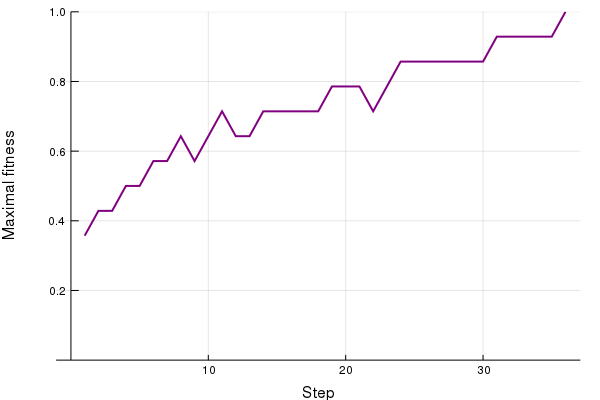
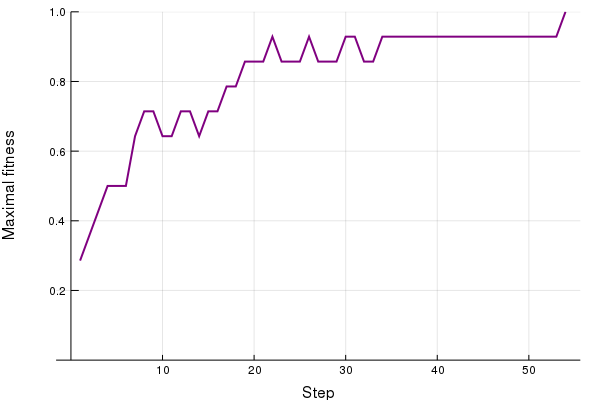
edits

diff --git a/content/lessons/control_flow.md b/content/lessons/control_flow.md
@@ -375,10 +375,10 @@ end
 
 
 ````
+bar
+bar
 foo
-bar
-bar
-bar
+foo
 bar
 ````
 
@@ -455,11 +455,11 @@ random_numbers
 
 ````
 5-element Array{Float64,1}:
- 0.21054797737371178
- 0.9224662589536379 
- 0.6096525404854314 
- 0.9684168700116775 
- 0.6166567135811234
+ 0.5735947007916011 
+ 0.5407116871161193 
+ 0.35943980207043613
+ 0.3560727908224446 
+ 0.8394320439253931
 ````
 
 
@@ -515,7 +515,7 @@ random_numbers[1]
 
 
 ````
-0.21054797737371178
+0.5735947007916011
 ````
 
 
@@ -536,7 +536,7 @@ random_numbers[length(random_numbers)]
 
 
 ````
-0.6166567135811234
+0.8394320439253931
 ````
 
 
@@ -554,7 +554,7 @@ random_numbers[end]
 
 
 ````
-0.6166567135811234
+0.8394320439253931
 ````
 
 
@@ -570,7 +570,7 @@ first(random_numbers)
 
 
 ````
-0.21054797737371178
+0.5735947007916011
 ````
 
 
@@ -581,7 +581,7 @@ last(random_numbers)
 
 
 ````
-0.6166567135811234
+0.8394320439253931
 ````
 
 
@@ -601,7 +601,7 @@ println(random_numbers[1])
 
 
 ````
-0.21054797737371178
+0.5735947007916011
 ````
 
 
@@ -612,7 +612,7 @@ println(random_numbers[3])
 
 
 ````
-0.6096525404854314
+0.35943980207043613
 ````
 
 
@@ -623,7 +623,7 @@ println(random_numbers[5])
 
 
 ````
-0.6166567135811234
+0.8394320439253931
 ````
 
 
@@ -653,9 +653,9 @@ end
 
 
 ````
-Position 1:	0.21054797737371178
-Position 3:	0.6096525404854314
-Position 5:	0.6166567135811234
+Position 1:	0.5735947007916011
+Position 3:	0.35943980207043613
+Position 5:	0.8394320439253931
 ````
 
 

diff --git a/content/capstones/genetic_algorithm.md b/content/capstones/genetic_algorithm.md
@@ -41,7 +41,7 @@ println(initial_guess)
 
 
 ````
-!?mzqnwu.-cyjn
+h uw-,gqemtrfl
 ````
 
 
@@ -107,7 +107,7 @@ offspring = first(parents)[1:cutoff] * last(parents)[cutoff+1:end]
 
 
 ````
-"acitexoogbqark"
+"f?tr,orfvopflm"
 ````
 
 
@@ -133,26 +133,26 @@ reproduction(initial_guesses, ω.(initial_guesses, problem))
 
 ````
 500-element Array{String,1}:
- "vhqyx-yyb eoge"
- "wrpidmxn?egcoc"
- "lk k,ty,u.ubng"
- "woou,gy qheafr"
- "w,an-bxbueiiaz"
- "wrpidmxn?!q.sz"
- "yf-an.yes-xfwa"
- "ohgte?q?twuucu"
- "lk k,jxq!j!hyv"
- "jetkd !h- chc?"
+ "f?tr,orfvop-ty"
+ "wnvne!eqfvv!r?"
+ "ezo-clgvuviczz"
+ "qw-ahwctpqwvnx"
+ "lc ,qlkpqiwvd."
+ "mkh?r?yuprv..,"
+ "nihnx,cduoam!u"
+ "ltixm ghjhivrh"
+ "imayziyedzxa!t"
+ "zvrtizaxowwgtg"
  ⋮               
- "n.tvlxy?pab,zf"
- "r?-kfty,u.ubng"
- "kaui-kaok?shkl"
- "v?gkvyn-f-lkoj"
- "qlamtnq.k ,ppi"
- "q-gp,ljwgvjdso"
- "drijgzeolevh.p"
- "jbjt-kaok?sfkk"
- "eaaqufgu.q,wth"
+ "wg!wm oqq m,r-"
+ "qqpieemlxg!zmm"
+ "w fw!oajdwylw?"
+ "qqpw,!rl,ji?.p"
+ "zhwf? nxvvv!r?"
+ "u-cemilogz!lyo"
+ "oeolqgv?eergcs"
+ "pp,ylv fszvroe"
+ "xsmzpuajc,eu!l"
 ````
 
 

diff --git a/content/lessons/writing_functions.md b/content/lessons/writing_functions.md
@@ -66,16 +66,16 @@ darts
 
 ````
 10-element Array{Any,1}:
- (1.7126648094447092, 0.31903338702966577) 
- (1.1420874702609827, 0.9097275484507117)  
- (0.5278296241009928, 1.2915300278153494)  
- (1.8769551232162875, 0.027655187851029606)
- (1.0684049325924327, 1.2745828418663936)  
- (1.464453003261708, 1.875858809110503)    
- (0.4255070128923002, 0.8661875507869254)  
- (1.3280724464571954, 1.4454807828934841)  
- (1.8857694956418296, 0.5920201271466028)  
- (0.03015205342392635, 0.25410851787954014)
+ (1.2305155332974476, 1.3017134349386317)  
+ (0.3147250622039146, 0.8048484790330761)  
+ (0.8348484188673222, 0.029997088535327343)
+ (1.391082410527296, 1.8860540737262865)   
+ (0.48051447763059274, 0.2491143399948914) 
+ (1.7939030433729966, 0.9502496628948545)  
+ (1.6816693413831114, 0.7728068085984852)  
+ (0.629512830244916, 1.534515772605126)    
+ (0.9636312762146355, 0.8518957322372409)  
+ (0.7693006042518244, 0.23326201721700235)
 ````
 
 

diff --git a/content/primers/optimization.md b/content/primers/optimization.md
@@ -1,62 +1,12 @@
-A *lot* of computing tasks involve going through arrays, or collections, of
-values, and selecting some of them, applying transformations, and returning
-values based on them. After reading the lesson on [Control flow]({{< ref
-"/lessons/control_flow.md" >}}), you are equipped to do this using `for`, `if`,
-and `while`. But most tasks can actually be adressed using an approach which is
-even more simple: map/filter/reduce.
-
-## Map
 
 ````julia
-map(x -> x * 2, 1:5)
+function initial_mutation(x)
+end
 ````
 
 
 ````
-5-element Array{Int64,1}:
-  2
-  4
-  6
-  8
- 10
+initial_mutation (generic function with 1 method)
 ````
 
 
-
-
-
-## Filter
-
-````julia
-filter(isodd, 1:5)
-````
-
-
-````
-3-element Array{Int64,1}:
- 1
- 3
- 5
-````
-
-
-
-
-
-## Reduce
-
-
-````julia
-reduce(+, 1:3)
-````
-
-
-````
-6
-````
-
-
-
-
-
-## Map on slices

diff --git a/content/primers/parallelcomputing.md b/content/primers/parallelcomputing.md
@@ -1,0 +1,14 @@
+
+````julia
+using Distributed
+addprocs(2)
+````
+
+
+````
+2-element Array{Int64,1}:
+ 2
+ 3
+````
+
+

diff --git a/content/primers/advanced_control_flow.md b/content/primers/advanced_control_flow.md
@@ -63,9 +63,12 @@ end
 
 
 ````
-0.56
-0.78
-0.79
+0.9
+0.98
+0.96
+0.46
+0.62
+0.92
 ````
 
 
